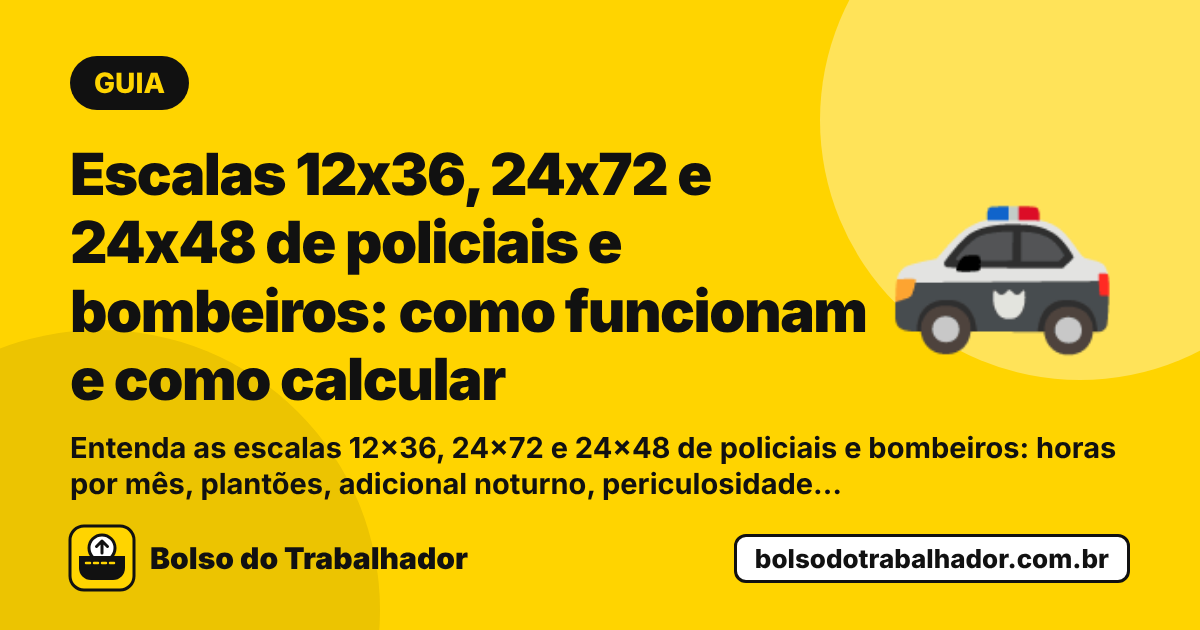
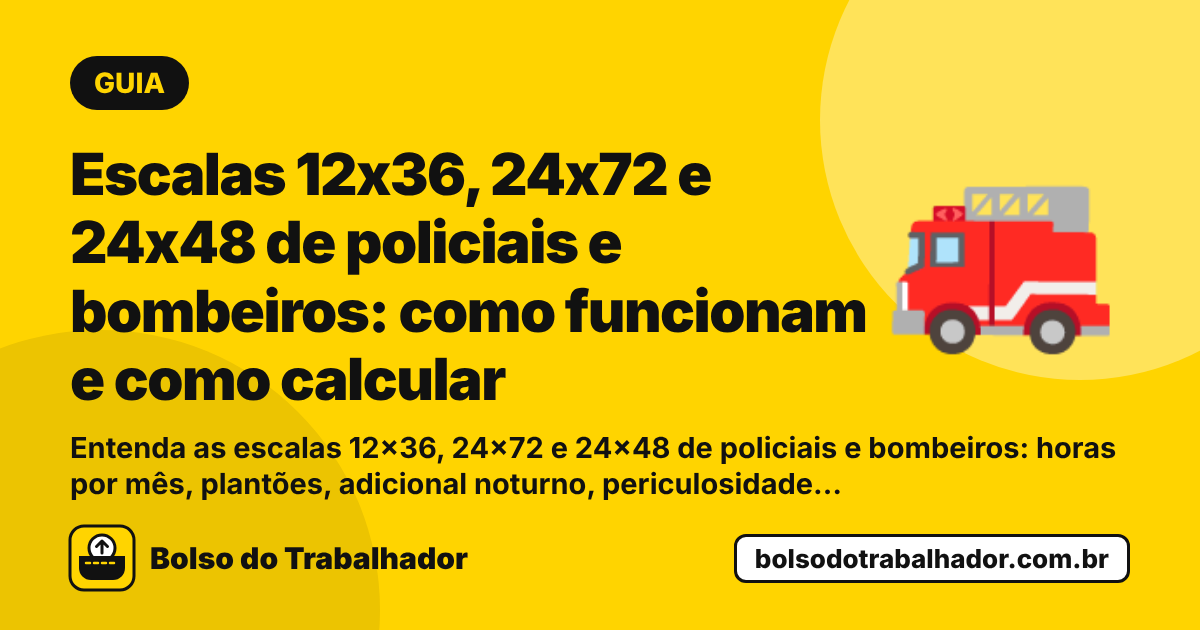
Adiciona imagem de compartilhamento para cada calculadora
Claude-Session: https://claude.ai/code/session_015bFD7XUxVCj2tfdkURuwR8

Changed region(s): [[0.74, 0.2714, 0.925, 0.573]]

diff --git a/calculadora-seguro-desemprego.html b/calculadora-seguro-desemprego.html
@@ -22,7 +22,7 @@
 <meta property="og:type" content="website">
 <meta property="og:title" content="Calculadora de seguro-desemprego 2026: valor e número de parcelas | Bolso do Trabalhador">
 <meta property="og:description" content="Calcule o valor das parcelas do seguro-desemprego com a tabela de 2026 e veja quantas parcelas você recebe, conforme os meses trabalhados e o número do pedido.">
-<meta property="og:image" content="https://bolsodotrabalhador.com.br/og-image.png">
+<meta property="og:image" content="https://bolsodotrabalhador.com.br/og-calculadora-seguro-desemprego.png">
 <meta property="og:url" content="https://bolsodotrabalhador.com.br/calculadora-seguro-desemprego.html">
 <meta name="twitter:card" content="summary_large_image">
 <link rel="stylesheet" href="https://fonts.googleapis.com/css2?family=Bricolage+Grotesque:opsz,wght@12..96,400;12..96,800&display=swap">

diff --git a/calculadora-rescisao.html b/calculadora-rescisao.html
@@ -22,7 +22,7 @@
 <meta property="og:type" content="website">
 <meta property="og:title" content="Calculadora de rescisão trabalhista 2026: verbas por tipo de demissão | Bolso do Trabalhador">
 <meta property="og:description" content="Calcule a rescisão CLT: saldo de salário, aviso prévio proporcional, 13º e férias proporcionais, multa do FGTS e descontos, em cada tipo de demissão.">
-<meta property="og:image" content="https://bolsodotrabalhador.com.br/og-image.png">
+<meta property="og:image" content="https://bolsodotrabalhador.com.br/og-calculadora-rescisao.png">
 <meta property="og:url" content="https://bolsodotrabalhador.com.br/calculadora-rescisao.html">
 <meta name="twitter:card" content="summary_large_image">
 <link rel="stylesheet" href="https://fonts.googleapis.com/css2?family=Bricolage+Grotesque:opsz,wght@12..96,400;12..96,800&display=swap">

diff --git a/calculadora-media-salarial.html b/calculadora-media-salarial.html
@@ -22,7 +22,7 @@
 <meta property="og:type" content="website">
 <meta property="og:title" content="Calculadora de média salarial: média dos últimos 12 meses | Bolso do Trabalhador">
 <meta property="og:description" content="Calcule a média do seu salário em 1 a 12 meses, incluindo extras e adicionais. Útil para férias, 13º, rescisão e seguro-desemprego.">
-<meta property="og:image" content="https://bolsodotrabalhador.com.br/og-image.png">
+<meta property="og:image" content="https://bolsodotrabalhador.com.br/og-calculadora-media-salarial.png">
 <meta property="og:url" content="https://bolsodotrabalhador.com.br/calculadora-media-salarial.html">
 <meta name="twitter:card" content="summary_large_image">
 <link rel="stylesheet" href="https://fonts.googleapis.com/css2?family=Bricolage+Grotesque:opsz,wght@12..96,400;12..96,800&display=swap">

diff --git a/calculadora-bombeiro.html b/calculadora-bombeiro.html
@@ -22,7 +22,7 @@
 <meta property="og:type" content="website">
 <meta property="og:title" content="Calculadora do bombeiro civil: periculosidade e adicional noturno | Bolso do Trabalhador">
 <meta property="og:description" content="Calcule a remuneração do bombeiro civil na escala 12x36, com periculosidade de 30%, adicional noturno e horas extras além da 36ª semanal.">
-<meta property="og:image" content="https://bolsodotrabalhador.com.br/og-image.png">
+<meta property="og:image" content="https://bolsodotrabalhador.com.br/og-calculadora-bombeiro.png">
 <meta property="og:url" content="https://bolsodotrabalhador.com.br/calculadora-bombeiro.html">
 <meta name="twitter:card" content="summary_large_image">
 <link rel="stylesheet" href="https://fonts.googleapis.com/css2?family=Bricolage+Grotesque:opsz,wght@12..96,400;12..96,800&display=swap">

diff --git a/calculadora-professor.html b/calculadora-professor.html
@@ -22,7 +22,7 @@
 <meta property="og:type" content="website">
 <meta property="og:title" content="Calculadora de salário do professor: hora-aula, DSR e piso 2026 | Bolso do Trabalhador">
 <meta property="og:description" content="Calcule o salário mensal por hora-aula, com 4,5 semanas, DSR e hora-atividade, e compare com o piso nacional do magistério de 2026.">
-<meta property="og:image" content="https://bolsodotrabalhador.com.br/og-image.png">
+<meta property="og:image" content="https://bolsodotrabalhador.com.br/og-calculadora-professor.png">
 <meta property="og:url" content="https://bolsodotrabalhador.com.br/calculadora-professor.html">
 <meta name="twitter:card" content="summary_large_image">
 <link rel="stylesheet" href="https://fonts.googleapis.com/css2?family=Bricolage+Grotesque:opsz,wght@12..96,400;12..96,800&display=swap">

diff --git a/calculadora-de-ferias.html b/calculadora-de-ferias.html
@@ -22,7 +22,7 @@
 <meta property="og:type" content="website">
 <meta property="og:title" content="Calculadora de férias 2026: quanto você vai receber | Bolso do Trabalhador">
 <meta property="og:description" content="Calcule o valor líquido das férias com o terço constitucional, a venda de 10 dias, a média de horas extras e os descontos de INSS e IR.">
-<meta property="og:image" content="https://bolsodotrabalhador.com.br/og-image.png">
+<meta property="og:image" content="https://bolsodotrabalhador.com.br/og-calculadora-de-ferias.png">
 <meta property="og:url" content="https://bolsodotrabalhador.com.br/calculadora-de-ferias.html">
 <meta name="twitter:card" content="summary_large_image">
 <link rel="stylesheet" href="https://fonts.googleapis.com/css2?family=Bricolage+Grotesque:opsz,wght@12..96,400;12..96,800&display=swap">

diff --git a/calculadora-13-salario.html b/calculadora-13-salario.html
@@ -22,7 +22,7 @@
 <meta property="og:type" content="website">
 <meta property="og:title" content="Calculadora de 13º salário 2026: 1ª e 2ª parcela | Bolso do Trabalhador">
 <meta property="og:description" content="Calcule o 13º salário integral ou proporcional, com a 1ª parcela, a 2ª parcela líquida e os descontos de INSS e imposto de renda.">
-<meta property="og:image" content="https://bolsodotrabalhador.com.br/og-image.png">
+<meta property="og:image" content="https://bolsodotrabalhador.com.br/og-calculadora-13-salario.png">
 <meta property="og:url" content="https://bolsodotrabalhador.com.br/calculadora-13-salario.html">
 <meta name="twitter:card" content="summary_large_image">
 <link rel="stylesheet" href="https://fonts.googleapis.com/css2?family=Bricolage+Grotesque:opsz,wght@12..96,400;12..96,800&display=swap">

diff --git a/calculadora-salario-liquido.html b/calculadora-salario-liquido.html
@@ -22,7 +22,7 @@
 <meta property="og:type" content="website">
 <meta property="og:title" content="Calculadora de salário líquido 2026 | Bolso do Trabalhador">
 <meta property="og:description" content="Descubra quanto cai na conta: salário bruto menos INSS, imposto de renda, vale-transporte e outros descontos, com as tabelas de 2026.">
-<meta property="og:image" content="https://bolsodotrabalhador.com.br/og-image.png">
+<meta property="og:image" content="https://bolsodotrabalhador.com.br/og-calculadora-salario-liquido.png">
 <meta property="og:url" content="https://bolsodotrabalhador.com.br/calculadora-salario-liquido.html">
 <meta name="twitter:card" content="summary_large_image">
 <link rel="stylesheet" href="https://fonts.googleapis.com/css2?family=Bricolage+Grotesque:opsz,wght@12..96,400;12..96,800&display=swap">

diff --git a/calculadora-policial.html b/calculadora-policial.html
@@ -22,7 +22,7 @@
 <meta property="og:type" content="website">
 <meta property="og:title" content="Calculadora de hora e adicional noturno do policial | Bolso do Trabalhador">
 <meta property="og:description" content="Veja o valor da hora, o adicional noturno e o serviço extra nas escalas 12x36, 24x72 e 24x48, com percentuais editáveis.">
-<meta property="og:image" content="https://bolsodotrabalhador.com.br/og-image.png">
+<meta property="og:image" content="https://bolsodotrabalhador.com.br/og-calculadora-policial.png">
 <meta property="og:url" content="https://bolsodotrabalhador.com.br/calculadora-policial.html">
 <meta name="twitter:card" content="summary_large_image">
 <link rel="stylesheet" href="https://fonts.googleapis.com/css2?family=Bricolage+Grotesque:opsz,wght@12..96,400;12..96,800&display=swap">

diff --git a/servidor-publico.html b/servidor-publico.html
@@ -22,7 +22,7 @@
 <meta property="og:type" content="website">
 <meta property="og:title" content="Calculadora de hora extra e adicional noturno do servidor público | Bolso do Trabalhador">
 <meta property="og:description" content="Calcule hora extra e adicional noturno de servidor público com percentuais editáveis, no modelo da Lei 8.112/90.">
-<meta property="og:image" content="https://bolsodotrabalhador.com.br/og-image.png">
+<meta property="og:image" content="https://bolsodotrabalhador.com.br/og-servidor-publico.png">
 <meta property="og:url" content="https://bolsodotrabalhador.com.br/servidor-publico.html">
 <meta name="twitter:card" content="summary_large_image">
 <link rel="stylesheet" href="https://fonts.googleapis.com/css2?family=Bricolage+Grotesque:opsz,wght@12..96,400;12..96,800&display=swap">

diff --git a/adicional-noturno.html b/adicional-noturno.html
@@ -22,7 +22,7 @@
 <meta property="og:type" content="website">
 <meta property="og:title" content="Calculadora de adicional noturno e hora extra | Bolso do Trabalhador">
 <meta property="og:description" content="Calcule o adicional noturno e as horas extras do mês a partir do salário. Grátis, com a conta explicada.">
-<meta property="og:image" content="https://bolsodotrabalhador.com.br/og-image.png">
+<meta property="og:image" content="https://bolsodotrabalhador.com.br/og-adicional-noturno.png">
 <meta property="og:url" content="https://bolsodotrabalhador.com.br/adicional-noturno.html">
 <meta name="twitter:card" content="summary_large_image">
 <link rel="stylesheet" href="https://fonts.googleapis.com/css2?family=Bricolage+Grotesque:opsz,wght@12..96,400;12..96,800&display=swap">

diff --git a/escala-12x36.html b/escala-12x36.html
@@ -22,7 +22,7 @@
 <meta property="og:type" content="website">
 <meta property="og:title" content="Calculadora da escala 12x36 | Bolso do Trabalhador">
 <meta property="og:description" content="Veja as horas do mês, o valor da hora e o adicional noturno na escala 12x36. Grátis e com a conta explicada.">
-<meta property="og:image" content="https://bolsodotrabalhador.com.br/og-image.png">
+<meta property="og:image" content="https://bolsodotrabalhador.com.br/og-escala-12x36.png">
 <meta property="og:url" content="https://bolsodotrabalhador.com.br/escala-12x36.html">
 <meta name="twitter:card" content="summary_large_image">
 <link rel="stylesheet" href="https://fonts.googleapis.com/css2?family=Bricolage+Grotesque:opsz,wght@12..96,400;12..96,800&display=swap">
